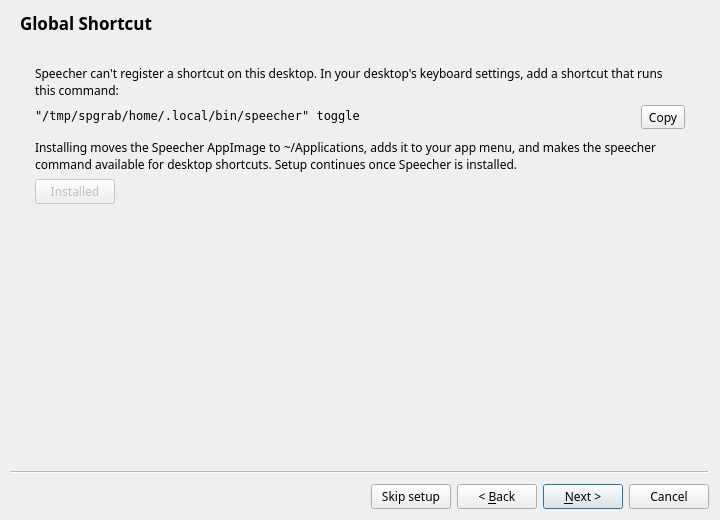
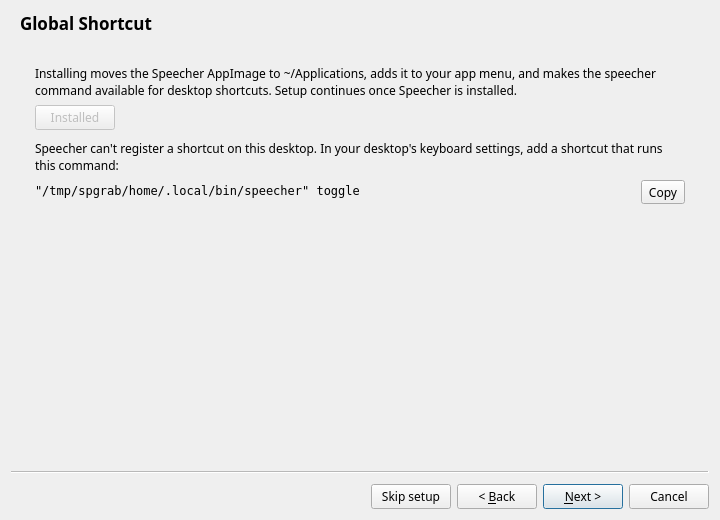
Install-first page order screenshots

diff --git a/pr-body.md b/pr-body.md
@@ -1,0 +1,49 @@
+Four setup changes, all four driven end to end on Linux.
+
+## Installing the AppImage is now a real, required step
+
+The Global Shortcut page's button (previously "Add Speecher to your app menu") is now "Install Speecher". Clicking it moves the AppImage into `~/Applications` (or an existing `~/AppImages` folder, which is left alone if the image already lives there), then writes the app menu entry, icon, and the `~/.local/bin/speecher` command link against the new location. `APPIMAGE` is updated in-process and the updater re-reads it, so update checks, installs, and restarts follow the moved file.
+
+The step is required: Next stays disabled on that page until the install has run, and "Skip setup" is hidden for the whole run while the install is pending, since skipping used to record setup as completed with the image still in Downloads. Cancel remains available and completes nothing. A command link left behind by an older version pointing at a non-installed location does not satisfy the gate; clicking Install repairs and moves everything.
+
+Both wizard variants are gated: `KAssistantDialog::setValid` in the KDE build, a `QWizardPage::isComplete` override otherwise.
+
+## Enabling the virtual keyboard is an explicit step
+
+The old verify dialog had only "Run test" and Cancel, and a passed test enabled ydotool as a side effect. The dialog now has an explicit Enable button that stays locked until a typing test passes; only clicking Enable turns virtual keyboard paste on. This covers both entry points into the flow, the setup assistant's Text delivery page and the Output settings row. The needs-sign-out path no longer enables ydotool behind the user's back either; the sign-in notes now direct the user to the Enable step in the Output settings after they sign back in. ydotool is Linux-only, so macOS and Windows have no such installer step.
+
+Locked until the test passes:
+
+![ydotool enable locked](https://raw.githubusercontent.com/firemonster612/speecher/evidence/pr__NUM__-linux-setup/ydotool-enable-locked.png)
+
+Unlocked after a passed test; enabling still takes the click:
+
+![ydotool enable unlocked](https://raw.githubusercontent.com/firemonster612/speecher/evidence/pr__NUM__-linux-setup/ydotool-enable-unlocked.png)
+
+## Provider stats lead with a score out of 10
+
+Both the speech and refinement provider stat blocks start with a Score line: Claude Voice 8/10, ChatGPT Codex 9/10, OpenAI refinement 9/10, Anthropic refinement 8/10, ranking the existing measured speed and quality lines. The macOS and Windows setup flows render the same descriptor stats, so they pick the line up without platform changes.
+
+![transcription page with score](https://raw.githubusercontent.com/firemonster612/speecher/evidence/pr__NUM__-linux-setup/setup-transcription.png)
+
+![refinement page with score](https://raw.githubusercontent.com/firemonster612/speecher/evidence/pr__NUM__-linux-setup/setup-refinement.png)
+
+## The gate, before and after
+
+Before installing: Next disabled, Skip setup gone, the manual command quoting the Downloads path.
+
+![global shortcut page before install](https://raw.githubusercontent.com/firemonster612/speecher/evidence/pr__NUM__-linux-setup/setup-global-shortcut.png)
+
+After installing: button reads Installed, Next and Skip return, the command now goes through `~/.local/bin/speecher`.
+
+![global shortcut page after install](https://raw.githubusercontent.com/firemonster612/speecher/evidence/pr__NUM__-linux-setup/setup-global-shortcut-installed.png)
+
+## Verification
+
+- Unit suite green (`ctest`, 20/21; `speecher_linux_style_choice` fails for a pre-existing environmental reason: the system breeze6.so was rebuilt against Qt 6.10 while the local build uses Qt 6.8.3). New tests: AppImage relocation including the `~/AppImages` preference, same-name replacement, and the `~/Applications`-as-file edge; the enable dialog's locked-until-test-passes gating.
+- New committed E2E rig at `tests/e2e/linux-setup` (same pattern as `linux-update`): builds the AppImage, runs it on a fresh profile under kwin_wayland in bwrap, and drives the whole assistant over AT-SPI. Final run passed all ten assertions: score lines on both provider pages, Skip hidden while the install is pending, Next held, the move into `~/Applications`, command link, menu entry and icon present, Skip and Next returning, and setup completing only after the install.
+- Two independent review rounds (one Claude reviewer, one GPT reviewer per round). Round 1 findings (Skip bypass, needs-sign-out auto-enable, legacy-symlink gate, destructive cross-filesystem fallback, `~/Applications`-as-file, stale `APPIMAGE` cache) are all fixed and re-verified in round 2.
+
+Known limits: the KDE `KAssistantDialog` variant is verified by reading the KF6 sources, not compiled locally (the host's KF6 packages are Qt 6.10, the local Qt is 6.8.3); CI's KDE build covers compilation. Declined edge: a desktop file deleted by hand while the command link stays intact still counts as installed, since the installer writes the link last and only manual tampering produces that state.
+
+🤖 Generated with [Claude Code](https://claude.com/claude-code)

diff --git a/pr-body-final.md b/pr-body-final.md
@@ -1,0 +1,49 @@
+Four setup changes, all four driven end to end on Linux.
+
+## Installing the AppImage is now a real, required step
+
+The Global Shortcut page's button (previously "Add Speecher to your app menu") is now "Install Speecher". Clicking it moves the AppImage into `~/Applications` (or an existing `~/AppImages` folder, which is left alone if the image already lives there), then writes the app menu entry, icon, and the `~/.local/bin/speecher` command link against the new location. `APPIMAGE` is updated in-process and the updater re-reads it, so update checks, installs, and restarts follow the moved file.
+
+The step is required: Next stays disabled on that page until the install has run, and "Skip setup" is hidden for the whole run while the install is pending, since skipping used to record setup as completed with the image still in Downloads. Cancel remains available and completes nothing. A command link left behind by an older version pointing at a non-installed location does not satisfy the gate; clicking Install repairs and moves everything.
+
+Both wizard variants are gated: `KAssistantDialog::setValid` in the KDE build, a `QWizardPage::isComplete` override otherwise.
+
+## Enabling the virtual keyboard is an explicit step
+
+The old verify dialog had only "Run test" and Cancel, and a passed test enabled ydotool as a side effect. The dialog now has an explicit Enable button that stays locked until a typing test passes; only clicking Enable turns virtual keyboard paste on. This covers both entry points into the flow, the setup assistant's Text delivery page and the Output settings row. The needs-sign-out path no longer enables ydotool behind the user's back either; the sign-in notes now direct the user to the Enable step in the Output settings after they sign back in. ydotool is Linux-only, so macOS and Windows have no such installer step.
+
+Locked until the test passes:
+
+![ydotool enable locked](https://raw.githubusercontent.com/firemonster612/speecher/evidence/pr84-linux-setup/ydotool-enable-locked.png)
+
+Unlocked after a passed test; enabling still takes the click:
+
+![ydotool enable unlocked](https://raw.githubusercontent.com/firemonster612/speecher/evidence/pr84-linux-setup/ydotool-enable-unlocked.png)
+
+## Provider stats lead with a score out of 10
+
+Both the speech and refinement provider stat blocks start with a Score line: Claude Voice 8/10, ChatGPT Codex 9/10, OpenAI refinement 9/10, Anthropic refinement 8/10, ranking the existing measured speed and quality lines. The macOS and Windows setup flows render the same descriptor stats, so they pick the line up without platform changes.
+
+![transcription page with score](https://raw.githubusercontent.com/firemonster612/speecher/evidence/pr84-linux-setup/setup-transcription.png)
+
+![refinement page with score](https://raw.githubusercontent.com/firemonster612/speecher/evidence/pr84-linux-setup/setup-refinement.png)
+
+## The gate, before and after
+
+Before installing: Next disabled, Skip setup gone, the manual command quoting the Downloads path.
+
+![global shortcut page before install](https://raw.githubusercontent.com/firemonster612/speecher/evidence/pr84-linux-setup/setup-global-shortcut.png)
+
+After installing: button reads Installed, Next and Skip return, the command now goes through `~/.local/bin/speecher`.
+
+![global shortcut page after install](https://raw.githubusercontent.com/firemonster612/speecher/evidence/pr84-linux-setup/setup-global-shortcut-installed.png)
+
+## Verification
+
+- Unit suite green (`ctest`, 20/21; `speecher_linux_style_choice` fails for a pre-existing environmental reason: the system breeze6.so was rebuilt against Qt 6.10 while the local build uses Qt 6.8.3). New tests: AppImage relocation including the `~/AppImages` preference, same-name replacement, and the `~/Applications`-as-file edge; the enable dialog's locked-until-test-passes gating.
+- New committed E2E rig at `tests/e2e/linux-setup` (same pattern as `linux-update`): builds the AppImage, runs it on a fresh profile under kwin_wayland in bwrap, and drives the whole assistant over AT-SPI. Final run passed all ten assertions: score lines on both provider pages, Skip hidden while the install is pending, Next held, the move into `~/Applications`, command link, menu entry and icon present, Skip and Next returning, and setup completing only after the install.
+- Two independent review rounds (one Claude reviewer, one GPT reviewer per round). Round 1 findings (Skip bypass, needs-sign-out auto-enable, legacy-symlink gate, destructive cross-filesystem fallback, `~/Applications`-as-file, stale `APPIMAGE` cache) are all fixed and re-verified in round 2.
+
+Known limits: the KDE `KAssistantDialog` variant is verified by reading the KF6 sources, not compiled locally (the host's KF6 packages are Qt 6.10, the local Qt is 6.8.3); CI's KDE build covers compilation. Declined edge: a desktop file deleted by hand while the command link stays intact still counts as installed, since the installer writes the link last and only manual tampering produces that state.
+
+🤖 Generated with [Claude Code](https://claude.com/claude-code)
